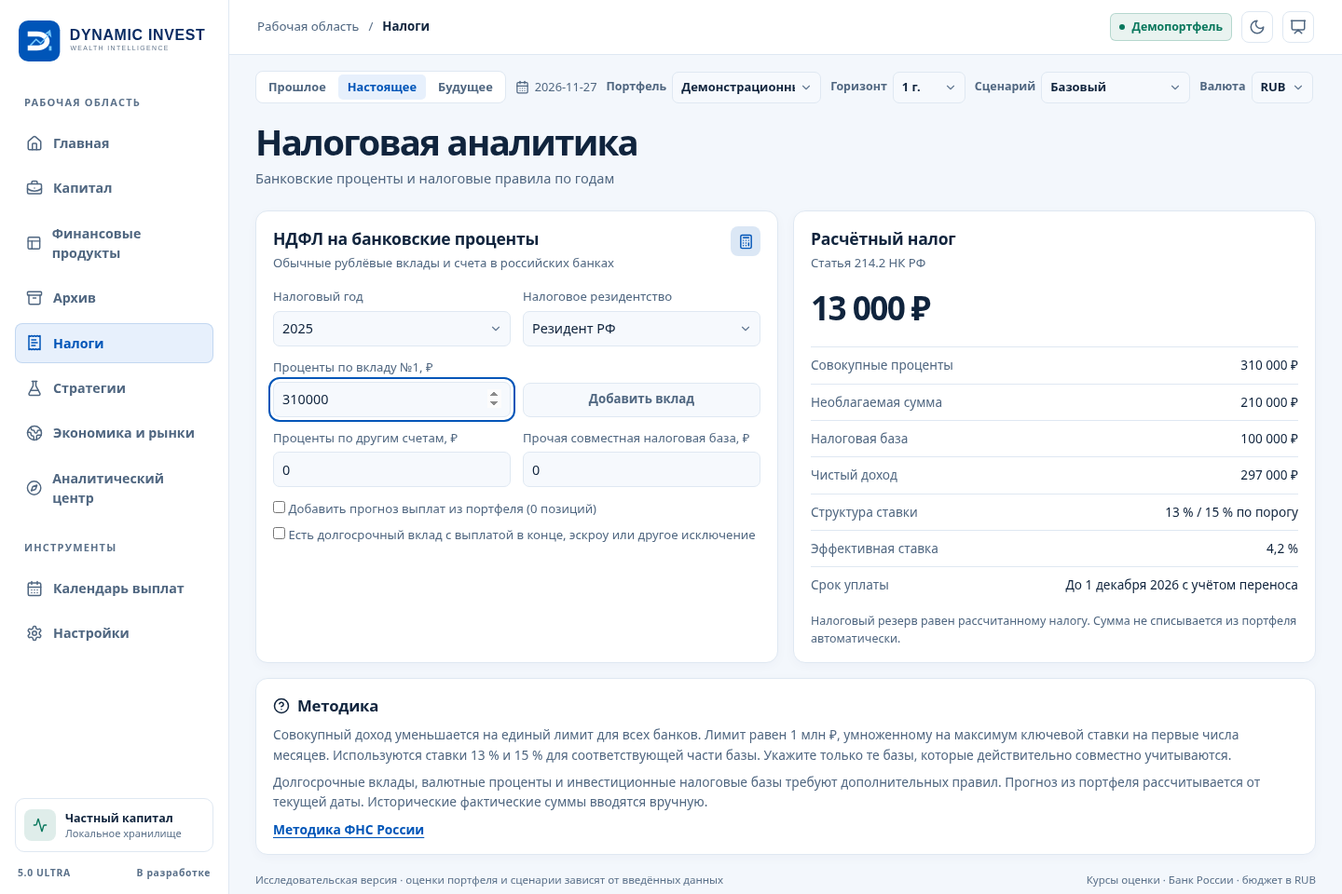
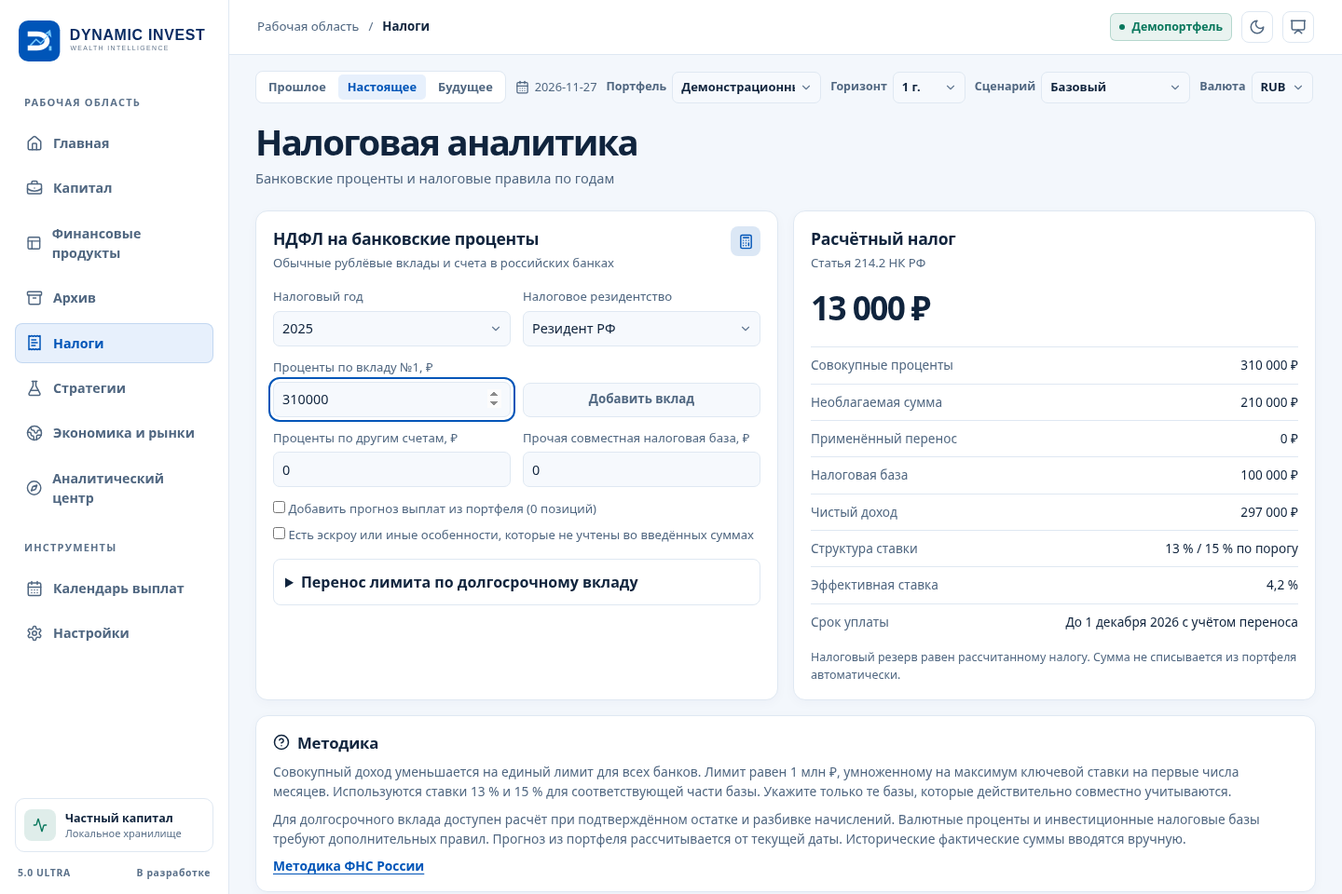
Check long-term tax carryover and fix narrow mobile headers

diff --git a/src/ui/TaxView.tsx b/src/ui/TaxView.tsx
@@ -1,7 +1,7 @@
 import { useMemo, useState } from 'react'
 import { Calculator, CircleHelp } from 'lucide-react'
 import { availableAt, type Snapshot } from '../market/snapshot'
-import { bankInterestByAsset, depositTax, nonresidentSource, taxRules, taxSource } from '../tax/deposits'
+import { bankInterestByAsset, depositTax, nonresidentSource, taxRules, taxSource, type DepositCarryover } from '../tax/deposits'
 import type { Asset } from '../finance/model'
 import type { Projection } from './CapitalChart'
 import { percent, rub } from './format'
@@ -16,6 +16,8 @@ export function TaxView({ data, assets, projection, defaultYear }: { data?: Snap
   const flat = residency === 'nonresident' && year >= 2025
   const [useForecast, setUseForecast] = useState(false)
   const [exception, setException] = useState(false)
+  const [useCarryover, setUseCarryover] = useState(false)
+  const [carryover, setCarryover] = useState<DepositCarryover>({ opened: '', paid: '', paidAtMaturityOnly: false, confirmed: false, amount: 0, eligibleAccrued: 0 })
   const rates = useMemo(() => Array.from({ length: 12 }, (_, month) => availableAt(data?.sources.key, `${year}-${String(month + 1).padStart(2, '0')}-01`))
     .filter(value => value && data?.sources.key?.series.at(-1)?.date && value.date <= data.sources.key.series.at(-1)!.date), [data, year])
   const knownRates = rates.filter((rate): rate is NonNullable<typeof rate> => Boolean(rate))
@@ -24,7 +26,7 @@ export function TaxView({ data, assets, projection, defaultYear }: { data?: Snap
   const assumed = knownRates.length ? Math.max(...knownRates.slice(0, Number(asOf)).map(rate => rate.value)) : undefined
   const estimate = bankInterestByAsset(assets, projection.events, year)
   const rate = customRate !== '' ? Number(customRate) : assumed
-  const result = exception ? null : depositTax(year, [...entries, ...(useForecast ? estimate.map(row => row.amount) : [])], other, shared, residency, rate)
+  const result = exception ? null : depositTax(year, [...entries, ...(useForecast ? estimate.map(row => row.amount) : [])], other, shared, residency, rate, useCarryover ? carryover : null)
   return <div className="two-column">
     <section className="panel feature-panel">
       <div className="panel-heading"><div><h2>НДФЛ на банковские проценты</h2><p>Обычные рублёвые вклады и счета в российских банках</p></div><span className="tile blue"><Calculator size={17}/></span></div>
@@ -38,17 +40,31 @@ export function TaxView({ data, assets, projection, defaultYear }: { data?: Snap
         {year === 2026 && <label>Допущение о максимальной ключевой ставке, %<input type="number" min={0} max={100} step=".01" placeholder={assumed?.toString() ?? 'Нет данных'} value={customRate} onChange={e => setCustomRate(e.target.value)}/></label>}
       </div>
       <div className="check-list"><label><input type="checkbox" checked={useForecast} onChange={e => setUseForecast(e.target.checked)}/> Добавить прогноз выплат из портфеля ({estimate.length} позиций)</label>
-        <label><input type="checkbox" checked={exception} onChange={e => setException(e.target.checked)}/> Есть долгосрочный вклад с выплатой в конце, эскроу или другое исключение</label></div>
+        <label><input type="checkbox" checked={exception} onChange={e => setException(e.target.checked)}/> Есть эскроу или иные особенности, которые не учтены во введённых суммах</label></div>
+      <details className="contract-fields"><summary>Перенос лимита по долгосрочному вкладу</summary>
+        <div className="check-list"><label><input type="checkbox" checked={useCarryover} onChange={e => setUseCarryover(e.target.checked)}/> Учесть подтверждённый остаток за прошлые годы</label></div>
+        {useCarryover && <>
+          <div className="field-grid">
+            <label>Дата открытия<input type="date" value={carryover.opened} onChange={e => setCarryover({ ...carryover, opened: e.target.value })}/></label>
+            <label>Дата закрытия и выплаты<input type="date" value={carryover.paid} onChange={e => setCarryover({ ...carryover, paid: e.target.value })}/></label>
+            <label>Остаток по данным ФНС, ₽<input type="number" value={carryover.amount} min={0} max={1e12} onChange={e => setCarryover({ ...carryover, amount: Math.max(0, Number(e.target.value)) })}/></label>
+            <label>Проценты за прошлые годы из текущей выплаты, ₽<input type="number" min={0} max={1e12} value={carryover.eligibleAccrued} onChange={e => setCarryover({ ...carryover, eligibleAccrued: Math.max(0, Number(e.target.value)) })}/></label>
+          </div>
+          <div className="check-list"><label><input type="checkbox" checked={carryover.paidAtMaturityOnly} onChange={e => setCarryover({ ...carryover, paidAtMaturityOnly: e.target.checked })}/> По договору проценты выплачиваются только в конце</label>
+            <label><input type="checkbox" checked={carryover.confirmed} onChange={e => setCarryover({ ...carryover, confirmed: e.target.checked })}/> Остаток подтверждён ФНС, разбивка начислений подтверждена банком</label></div>
+          <p className="secondary">Включите полученные проценты по договору в общий доход выше. Используйте этот блок для одного вклада с подтверждёнными суммами.</p>
+        </>}
+      </details>
       {useForecast && <ul className="tax-estimate">{estimate.map((row, index) => <li key={index}>{row.name} <strong>{rub(row.amount)}</strong></li>)}</ul>}
     </section>
     <section className="panel feature-panel" aria-live="polite">
       <div className="panel-heading"><div><h2>Расчётный налог</h2><p>{result?.provisional ? 'Предварительно · ставка введена или рассчитана по части года' : 'Статья 214.2 НК РФ'}</p></div></div>
       {result ? <><div className="large-result">{rub(result.tax)}</div><dl className="result-list">{[
-        ['Совокупные проценты', rub(result.gross)], ['Необлагаемая сумма', rub(result.exemption)], ['Налоговая база', rub(result.taxable)], ['Чистый доход', rub(result.net)],
+        ['Совокупные проценты', rub(result.gross)], ['Необлагаемая сумма', rub(result.exemption)], ['Применённый перенос', rub(result.transferred)], ['Налоговая база', rub(result.taxable)], ['Чистый доход', rub(result.net)],
         ['Структура ставки', result.flat ? '15 % для нерезидента' : '13 % / 15 % по порогу'], ['Эффективная ставка', result.effective === null ? '—' : percent(result.effective)], ['Срок уплаты', 'До 1 декабря ' + result.dueYear + ' с учётом переноса'],
       ].map(([key, value]) => <div key={key}><dt>{key}</dt><dd>{value}</dd></div>)}</dl><p className="secondary">Налоговый резерв равен рассчитанному налогу. Сумма не списывается из портфеля автоматически.</p></>
-        : <p className="empty">{exception ? 'Для исключения нужны отдельные сведения и проверка условий.' : 'Для выбранных параметров расчёт недоступен.'}</p>}
+        : <p className="empty">{exception ? 'Для исключения нужны отдельные сведения и проверка условий.' : useCarryover ? 'Проверьте даты, выплату в конце срока и подтверждение ФНС. Срок вклада должен быть больше 15 месяцев.' : 'Для выбранных параметров расчёт недоступен.'}</p>}
     </section>
-    <section className="panel feature-panel full-width methodology"><h2><CircleHelp size={18}/> Методика</h2><p>Совокупный доход уменьшается на единый лимит для всех банков. Лимит равен 1 млн ₽, умноженному на максимум ключевой ставки на первые числа месяцев. Используются ставки 13 % и 15 % для соответствующей части базы. Укажите только те базы, которые действительно совместно учитываются.</p><p>Долгосрочные вклады, валютные проценты и инвестиционные налоговые базы требуют дополнительных правил. Прогноз из портфеля рассчитывается от текущей даты. Исторические фактические суммы вводятся вручную.</p><p><a className="text-link" href={result?.flat ? nonresidentSource : result?.rule.source ?? taxSource} target="_blank" rel="noreferrer">Методика ФНС России</a></p></section>
+    <section className="panel feature-panel full-width methodology"><h2><CircleHelp size={18}/> Методика</h2><p>Совокупный доход уменьшается на единый лимит для всех банков. Лимит равен 1 млн ₽, умноженному на максимум ключевой ставки на первые числа месяцев. Используются ставки 13 % и 15 % для соответствующей части базы. Укажите только те базы, которые действительно совместно учитываются.</p><p>Для долгосрочного вклада доступен расчёт при подтверждённом остатке и разбивке начислений. Валютные проценты и инвестиционные налоговые базы требуют дополнительных правил. Прогноз из портфеля рассчитывается от текущей даты. Исторические фактические суммы вводятся вручную.</p><p><a className="text-link" href={result?.flat ? nonresidentSource : result?.rule.source ?? taxSource} target="_blank" rel="noreferrer">Методика ФНС России</a></p></section>
   </div>
 }

diff --git a/src/tax/deposits.ts b/src/tax/deposits.ts
@@ -1,7 +1,8 @@
 import Decimal from 'decimal.js'
 import { money } from '../finance/ledger.ts'
 import type { FinancialEvent } from '../finance/ledger.ts'
-import type { Asset } from '../finance/model.ts'
+import { addMonths } from '../finance/engine.ts'
+import { validDate, type Asset } from '../finance/model.ts'
 
 export const taxSource = 'https://www.nalog.gov.ru/rn77/taxation/taxes/ndfl/ndfl_fl/onb_ndfl/'
 export const nonresidentSource = 'https://www.nalog.gov.ru/new2025/'
@@ -12,7 +13,16 @@ export const taxRules = [
   { year: 2026, threshold: 2_400_000, maximumKeyRate: null, source: taxSource },
 ] as const
 
-export function depositTax(year: number, bankInterest: number[], otherInterest: number, sharedTaxableBase: number, residency: 'resident' | 'nonresident', provisionalRate?: number) {
+export interface DepositCarryover {
+  opened: string
+  paid: string
+  paidAtMaturityOnly: boolean
+  confirmed: boolean
+  amount: number
+  eligibleAccrued: number
+}
+
+export function depositTax(year: number, bankInterest: number[], otherInterest: number, sharedTaxableBase: number, residency: 'resident' | 'nonresident', provisionalRate?: number, carryover: DepositCarryover | null = null) {
   const rule = taxRules.find(r => r.year === year)
   if (!rule) return null
   const rate = rule.maximumKeyRate ?? provisionalRate
@@ -20,12 +30,17 @@ export function depositTax(year: number, bankInterest: number[], otherInterest: 
     rate === undefined || !Number.isFinite(rate) || rate < 0 || rate > 100) return null
   const gross = money(bankInterest.reduce((sum, amount) => sum.plus(amount), new Decimal(otherInterest)))
   const exemption = money(1_000_000 * rate / 100)
-  const taxable = money(Math.max(0, gross - exemption))
+  const ordinaryTaxable = money(Math.max(0, gross - exemption))
+  if (carryover && (!carryover.confirmed || !carryover.paidAtMaturityOnly || !validDate(carryover.opened) || !validDate(carryover.paid) ||
+    carryover.paid <= addMonths(carryover.opened, 15) || Number(carryover.paid.slice(0, 4)) !== year || carryover.opened.slice(0, 4) === carryover.paid.slice(0, 4) ||
+    ![carryover.amount, carryover.eligibleAccrued].every(n => Number.isFinite(n) && n >= 0) || carryover.eligibleAccrued > gross)) return null
+  const transferred = carryover ? money(Math.min(ordinaryTaxable, carryover.amount, carryover.eligibleAccrued)) : 0
+  const taxable = money(new Decimal(ordinaryTaxable).minus(transferred))
   const flat = residency === 'nonresident' && year >= 2025
   const lower = flat ? 0 : Math.min(taxable, Math.max(0, rule.threshold - sharedTaxableBase))
   const exactTax = new Decimal(lower).times(.13).plus(new Decimal(taxable).minus(lower).times(.15))
   const tax = exactTax.toDecimalPlaces(0, Decimal.ROUND_HALF_UP).toNumber()
-  return { rule, flat, gross, exemption, taxable, tax, net: money(gross - tax), effective: gross ? tax / gross : null, provisional: rule.maximumKeyRate === null, dueYear: year + 1 }
+  return { rule, flat, gross, exemption, transferred, taxable, tax, net: money(gross - tax), effective: gross ? tax / gross : null, provisional: rule.maximumKeyRate === null, dueYear: year + 1 }
 }
 
 export function bankInterestByAsset(assets: Asset[], events: FinancialEvent[], year: number) {

diff --git a/tests/ultra.spec.ts b/tests/ultra.spec.ts
@@ -21,10 +21,10 @@ test('dashboard and its journal render at 1440, 1024, 768 and 360 pixels', async
   await expect(page.getByText('Банк России · официальные данные')).toBeVisible()
   await expect(page.getByRole('heading', { name: 'Динамика капитала' })).toBeVisible()
   await expect(page.locator('.market-line').filter({ hasText: 'Ключевая ставка' }).locator('strong')).not.toHaveText('—')
-  for (const width of [1440, 1024, 768, 360]) {
+  for (const width of [1440, 1024, 768, 360, 320]) {
     await page.setViewportSize({ width, height: width === 360 ? 820 : 960 })
     await expect.poll(() => page.evaluate(() => document.documentElement.scrollWidth)).toBeLessThanOrEqual(width + 1)
-    if (width !== 768) await capture(page, 'dashboard-' + width)
+    if (width !== 320) await capture(page, 'dashboard-' + width)
   }
   await page.getByRole('button', { name: 'Открыть меню' }).click()
   await expect(page.getByRole('link', { name: 'Архив', exact: true })).toBeVisible()
@@ -124,6 +124,9 @@ test('analytic studio produces a local proposal and opens the report in either t
   await expect(page.getByRole('cell', { name: 'Оклад + процент' })).toBeVisible()
   await page.getByRole('button', { name: 'Отчёт', exact: true }).click()
   await expect(page.getByRole('button', { name: 'Печать / PDF' })).toBeVisible()
+  const pdf = await page.pdf({ printBackground: true })
+  expect(pdf.subarray(0, 4).toString()).toBe('%PDF')
+  expect(pdf.length).toBeGreaterThan(10_000)
   await page.getByRole('button', { name: 'Включить тёмную тему' }).click()
   await expect(page.locator('html')).toHaveAttribute('data-theme', 'dark')
 })

diff --git a/src/finance/ultra.test.ts b/src/finance/ultra.test.ts
@@ -174,3 +174,14 @@ test('business case traces funnel, net new money and remuneration scenarios', ()
   assert.equal(result.commission, 120_000)
   assert.equal(result.payout[1].businessNet, 42_000)
 })
+
+
+test('confirmed carryover matches the published FNS example for paid long-term interest', () => {
+  const carryover = { opened: '2022-02-01', paid: '2023-12-31', paidAtMaturityOnly: true, confirmed: true, amount: 200000, eligibleAccrued: 75000 }
+  const result = depositTax(2023, [75000, 100000], 0, 0, 'resident', undefined, carryover)!
+  assert.equal(result.transferred, 25000)
+  assert.equal(result.taxable, 0)
+  assert.equal(result.tax, 0)
+  assert.equal(depositTax(2023, [175000], 0, 0, 'resident', undefined, { ...carryover, confirmed: false }), null)
+  assert.equal(depositTax(2023, [175000], 0, 0, 'resident', undefined, { ...carryover, opened: '2022-10-01' }), null)
+})

diff --git a/src/main.tsx b/src/main.tsx
@@ -108,7 +108,7 @@ function App() {
   const [analysisTab, setAnalysisTab] = useState(location.hash === '#calculator' ? 'calculator' : 'analyst')
 
   useEffect(() => {
-    const onHash = () => { setPage(currentPage()); setDrawer(false); if (location.hash === '#calculator') setAnalysisTab('calculator'); window.scrollTo(0, 0) }
+    const onHash = () => { const next = currentPage(); setPage(next); if (next === 'archive') setMode('past'); setDrawer(false); if (location.hash === '#calculator') setAnalysisTab('calculator'); window.scrollTo(0, 0) }
     const onKey = (e: KeyboardEvent) => { if (e.key === 'Escape') { setDrawer(false); setPresentation(false) } }
     window.addEventListener('hashchange', onHash)
     window.addEventListener('keydown', onKey)

diff --git a/src/style.css b/src/style.css
@@ -390,3 +390,10 @@ table, .metric-value, .large-result, .upcoming-list strong, .market-line strong,
 .catalog-terms { padding-left: 16px; margin-block: 7px; list-style: disc; }
 .catalog-terms li + li { margin-top: 8px; }
 @media (max-width: 850px) { .drawer-overlay { left: 245px; } }
+
+@media (max-width: 600px) {
+  .topbar .breadcrumb { min-width: 0; flex: 1 1 0; }
+  .topbar .breadcrumb b { min-width: 0; overflow: hidden; text-overflow: ellipsis; white-space: nowrap; }
+  .topbar .top-actions, .topbar .top-actions > * { flex-shrink: 0; }
+  .topbar .demo-badge { padding-inline: 6px; }
+}

diff --git a/ACCEPTANCE-CHECKLIST.md b/ACCEPTANCE-CHECKLIST.md
@@ -15,7 +15,7 @@
 | 9 | Добавить облигации | Реализован и проверен | Тест купонов, амортизации, YTM, дюрации и НКД по графику |
 | 10 | Валовая доходность | Реализован и проверен | Инварианты начисления, возврата номинала и рыночной оценки |
 | 11 | Чистая доходность | Реализован частично | Введённые комиссии и условный налог проходят через журнал. Расчёт всех фактических инвестиционных налогов отсутствует |
-| 12 | Налоги | Реализован частично | Банковские проценты по годам, резидентство и проверенный порог. Специальные депозиты и инвестиционные налоги требуют правил |
+| 12 | Налоги | Реализован частично | Банковские проценты по годам, резидентство и проверенный порог. Подтверждённый перенос для одного долгосрочного вклада. Инвестиционные налоги требуют правил |
 | 13 | График капитала | Реализован и проверен | Chromium, проверка согласования итога с журналом |
 | 14 | Раскрыть год до месяцев | Реализован и проверен | Chromium раскрывает год и месяц |
 | 15 | Раскрыть месяц до инструментов | Реализован и проверен | Chromium раскрывает инструмент |
@@ -34,13 +34,13 @@
 | 28 | Аналитическое объяснение | Реализован и проверен | Селектор локальных объяснений работает от журнала и концентрации |
 | 29 | Сформировать предложение | Реализован и проверен | Chromium получает файл предложения из Studio |
 | 30 | Презентационный режим | Реализован и проверен | Chromium открывает и закрывает режим, сохранён снимок |
-| 31 | Сформировать отчёт | Реализован частично | Печатный отчёт с графиком, риском и детализацией. PDF через окно печати, XLSX отсутствует |
+| 31 | Сформировать отчёт | Реализован частично | Печатный отчёт с графиком, риском и детализацией. PDF через окно печати проверен в Chromium. XLSX отсутствует |
 | 32 | Экспортировать данные | Реализован и проверен | Chromium экспортирует JSON и ICS, тесты CSV и ICS |
 | 33 | Сохранить портфель | Реализован и проверен | Chromium сохраняет и перезагружает позицию |
 | 34 | Восстановить портфель | Реализован и проверен | Chromium удаляет локальный экземпляр и восстанавливает резервную копию. Тест миграции 1.0 |
 | 35 | Увидеть источники | Реализован и проверен | В интерфейсе ссылки ЦБ, ФНС, ПСБ, Токеона и архивов, проверка схемы URL |
 | 36 | Увидеть ограничения | Реализован и проверен | Формулы и пояснения на экранах, пробелы показаны отдельно |
 | 37 | Планшет | Реализован и проверен | Chromium проверяет 768 и 1024 px, аппаратное тестирование не проводилось |
-| 38 | Смартфон | Реализован и проверен | Chromium проверяет ширину 360 px и мобильное меню |
+| 38 | Смартфон | Реализован и проверен | Chromium проверяет ширины 320 и 360 px и мобильное меню |
 | 39 | Работать без платных API | Реализован и проверен | Статическая сборка и версия снимка в репозитории |
 | 40 | Фактический статус модулей | Реализован и проверен | Эта матрица и IMPLEMENTATION-STATUS.md |

diff --git a/TAX-METHODOLOGY.md b/TAX-METHODOLOGY.md
@@ -11,6 +11,6 @@
 
 Единый лимит применяется к сумме соответствующих полученных процентов по всем банкам. Граница применяется к остаточной базе после учёта идентифицированной пользователем совместной базы. Подстановка в 2026 году остаётся предварительной. Срок уплаты указан как 1 декабря следующего года с возможным переносом.
 
-Долгосрочные вклады с выплатой в конце, эскроу и иные исключения останавливают обычный расчёт при отметке пользователя. Для нерезидентов с 2025 года применяется ставка 15 % на облагаемую часть. До 2025 года используется та же граница, что для резидентов. [Разъяснения ФНС о реформе 2025 года](https://www.nalog.gov.ru/new2025/). Проценты по иностранным банкам, особые валютные правила, инвестиционные доходы, вычеты и переносы лимитов требуют отдельных модулей.
+Для одного вклада сроком более 15 месяцев с выплатой только в конце можно ввести подтверждённый ФНС остаток прошлых лет и проценты из этой выплаты, относящиеся к прошлым годам. Перенос ограничен этими суммами и положительной налоговой базой. Эскроу и другие неучтённые особенности останавливают обычный расчёт при отметке пользователя. Для нерезидентов с 2025 года применяется ставка 15 % на облагаемую часть. До 2025 года используется та же граница, что для резидентов. [Разъяснения ФНС о реформе 2025 года](https://www.nalog.gov.ru/new2025/). Проценты по иностранным банкам, особые валютные правила, инвестиционные доходы, вычеты и автоматическая сверка переносов нескольких договоров требуют отдельных модулей.
 
 Условная ставка в сценарии является отдельным допущением для чувствительности капитала. Она не применяется автоматически к фактическому налогу. Налоговый экран сам не списывает сумму с портфеля.

diff --git a/NEXT-STEPS.md b/NEXT-STEPS.md
@@ -4,7 +4,7 @@
 
 1. Начать с 5.0.5 и 5.0.6. Проверить разрешённый прямой доступ к текущим документам ПСБ, УК ПСБ и Токеона. Для каждого действующего тарифа сохранить матрицу и подтверждённый интервал действия. Подключить адаптеры к тому же снимку, не заменяя частичные версии.
 2. Улучшить полноту архива. Использовать конкретные документы и сверить даты доступности. Подключить результаты диапазонов Common Crawl только после подтверждения исходного URL и содержания. Доработать отсутствие точной даты публикации инфляции.
-3. Продолжить 5.0.3 и 5.0.4. Хранить фактические операции, сверять остатки, добавить долгосрочные депозиты, отдельные инвестиционные базы и тестовые эталоны ФНС. Учитывать единый налоговый резерв до момента выплаты.
+3. Продолжить 5.0.3 и 5.0.4. Хранить фактические операции, сверять остатки, расширить сверку переносов долгосрочных депозитов, добавить отдельные инвестиционные базы и тестовые эталоны ФНС. Учитывать единый налоговый резерв до момента выплаты.
 4. Построить историческую портфельную симуляцию с явным отказом при нехватке данных. Добавить сценарии по годам, динамические тарифы и риск ликвидности.
 5. Продолжить профессиональные инструменты после закрытия этих критериев. Предусмотреть автоматический PDF с кириллицей, XLSX, Russia–China Lab, события Smart Alerts и согласованный сервер аналитика.
 6. После решения владельца о слиянии проверить новый запуск GitHub Actions из main, публичный URL, ассеты и JSON. Действия при 404 описаны в DEPLOYMENT.md.

diff --git a/IMPLEMENTATION-STATUS.md b/IMPLEMENTATION-STATUS.md
@@ -7,7 +7,7 @@
 | 5.0.1 Foundation | Выполнен аудит main, Pages и зависимостей | Проверить новый workflow публикации после слияния |
 | 5.0.2 Premium Experience | Айдентика, светлая и тёмная темы, навигация, адаптация, watermark | Аппаратный прогон на планшете |
 | 5.0.3 Capital Engine | Несколько портфелей, 100 позиций, бюджет, миграция, журнал прогноза, облигационные расчёты | Хранение фактических операций, отдельные договорные конвенции и подтверждение исторических остатков |
-| 5.0.4 Tax & Cash Flow | НДФЛ для обычных банковских процентов, журнал, календарь, CSV и ICS | Инвестиционные правила, долгосрочные вклады, вычеты и переход к фактическому календарю |
+| 5.0.4 Tax & Cash Flow | НДФЛ для обычных процентов и подтверждённого переноса одного вклада, журнал, календарь, CSV и ICS | Инвестиционные правила, сверка нескольких переносов, вычеты и переход к фактическому календарю |
 | 5.0.5 Live Financial Data | Шесть рядов Банка России, валидируемые адаптеры и планировщик | Текущие тарифы ПСБ, фонды, выпуски ЦФА. MOEX ISS 503 в этой среде |
 | 5.0.6 Financial Time Machine | Шесть исторических продуктовых наблюдений, котировки ЦБ, Wayback, проверка индекса Common Crawl, симуляция ориентиров | Извлечение тарифов, приёмка Common Crawl на результатах, портфельная симуляция и налоги |
 | 5.0.7 Strategy & Risk | Четыре сценария, до пяти портфелей, концентрация, цели и лестница | Параметры по годам, реконструкция ликвидности, расширенные стрессы, АСВ |

diff --git a/CHANGELOG.md b/CHANGELOG.md
@@ -5,7 +5,7 @@
 - Проверена исходная публикация 1.0. Заданы base Pages, диагностика конфигурации, ежедневное расписание и проверка PR в Chromium.
 - Добавлены бело-синий интерфейс, авторская айдентика, презентация и переключатели времени, валюты, горизонта и сценария.
 - Внедрены конструктор с бюджетом, миграция, журнал с копеечной точностью, договорные условия и детальная отчётность.
-- Добавлены банковский НДФЛ по годам, расчёты облигаций, цели, лестница, риск, сравнение сценариев, резервные копии и экспорт.
+- Добавлены банковский НДФЛ по годам и подтверждённый перенос одного долгосрочного вклада, расчёты облигаций, цели, лестница, риск, сравнение сценариев, резервные копии и экспорт.
 - Загружены шесть официальных рядов Банка России и подготовлены датированные наблюдения ПСБ и Токеона. Добавлены монитор обновлений, адаптер MOEX и проверка двух внешних архивов.
 - Появились локальный аналитик, Private Banking Studio, бизнес-моделирование и четыре урока.
 

diff --git a/DESIGN-SYSTEM.md b/DESIGN-SYSTEM.md
@@ -4,4 +4,4 @@
 
 Авторский знак, светлый и тёмный логотипы, монограмма, SVG-обложка и PNG для предпросмотра находятся в `public/brand`. В настройках можно отключить водяной знак. Шрифт использует локальный системный стек с кириллицей. Числа финансовых таблиц и карточек табличные.
 
-Аппаратная проверка отдельных моделей устройств не проводилась. Браузерные размеры 360, 768, 1024 и 1440 проверяются Playwright. При печати скрываются навигация и элементы управления, используются светлые токены. Уменьшение анимаций подчиняется prefers-reduced-motion.
+Аппаратная проверка отдельных моделей устройств не проводилась. Браузерные размеры 320, 360, 768, 1024 и 1440 проверяются Playwright. При печати скрываются навигация и элементы управления, используются светлые токены. Уменьшение анимаций подчиняется prefers-reduced-motion.
